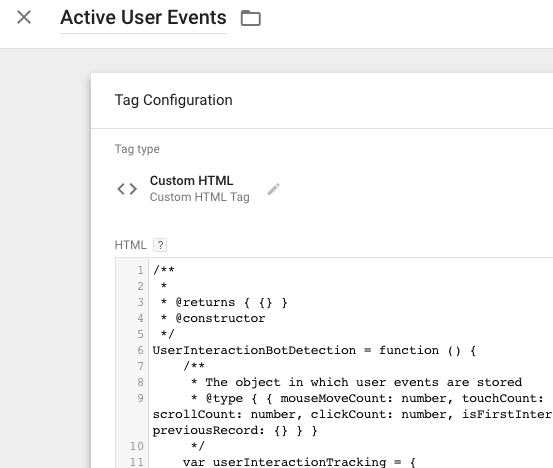
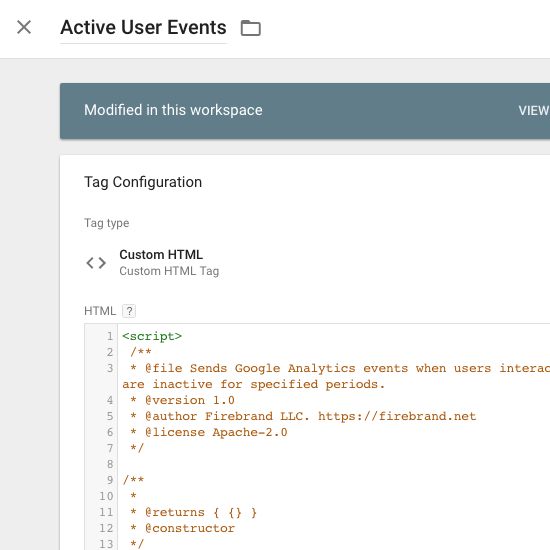
update instructions and screenshot to include script tags

diff --git a/README.md b/README.md
@@ -27,7 +27,7 @@ If you haven't already set up Google Tag Manager (GTM), Google has some [helpful
 
  ![Tag Type](screenshots/tag-type.png "Tag Type")
 
-4. Paste the contents of  [user-interaction.js](https://github.com/FirebrandLLC/User-Interaction-JS-Tracking/blob/master/user-interaction.js) into the HTML edit box
+4. Paste the contents of [user-interaction.js](https://github.com/FirebrandLLC/User-Interaction-JS-Tracking/blob/master/user-interaction.js) into the HTML edit box. Add script tags around the code.
 
  ![Tag HTML](screenshots/tag-html.png "Tag HTML")
 
